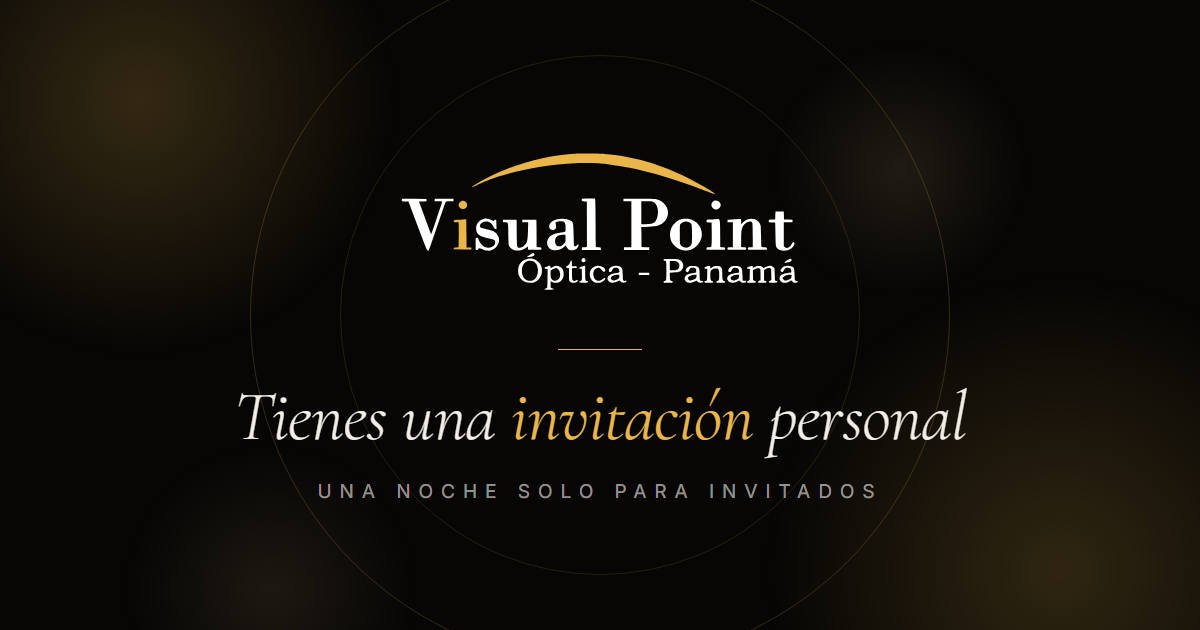
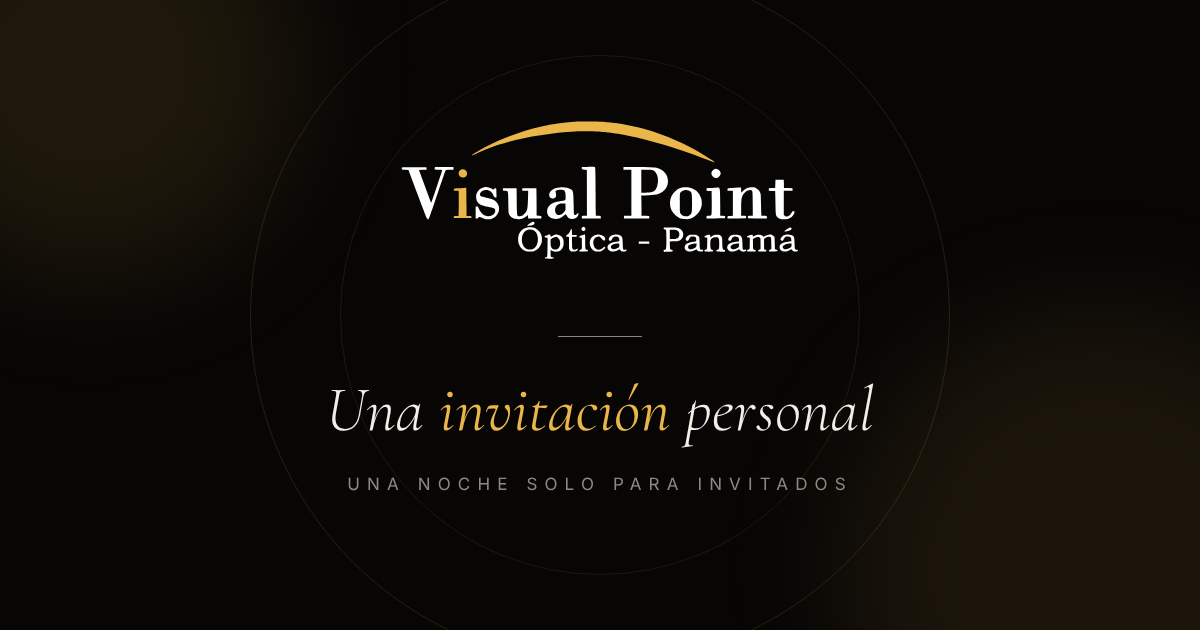
Inauguración: sello del pase sin textLength (cabe en el círculo en Safari), nombre sin inline-block y nueva imagen para compartir en trato de usted
Claude-Session: https://claude.ai/code/session_01WwBaHdbXEsProUqmyR9w4C

Changed region(s): [[0.3392, 0.181, 0.6783, 0.4524], [0.185, 0.6032, 0.8017, 0.7238], [0.2467, 0.754, 0.74, 0.8143]]

diff --git a/inauguracion/index.html b/inauguracion/index.html
@@ -84,7 +84,7 @@
   .kicker{font-size:12.5px;letter-spacing:.36em;text-transform:uppercase;color:var(--mute);margin-bottom:28px;font-weight:400}
   h2{text-wrap:balance;font-weight:200;font-size:clamp(38px,8.2vw,112px);line-height:1.03;letter-spacing:-.045em;max-width:11em}
   h2 em{font-size:1.06em}
-  .nm{display:inline-block;white-space:nowrap}
+  .nm{white-space:nowrap}
   .and{display:block;font-size:.42em;letter-spacing:.02em;line-height:1.2;margin-top:.12em}
   .name{font-family:var(--serif);font-style:italic;font-weight:300;font-size:clamp(84px,24vw,340px);line-height:.95;letter-spacing:-.03em;background:linear-gradient(180deg,#fff 20%,var(--gold) 100%);-webkit-background-clip:text;background-clip:text;color:transparent;padding:0 .1em .08em}
   .sub{font-size:clamp(16px,2.2vw,24px);color:var(--mute);margin-top:18px;letter-spacing:.02em}
@@ -414,7 +414,7 @@
             <defs><path id="ringp" d="M60 60 m-47 0 a47 47 0 1 1 94 0 a47 47 0 1 1 -94 0"/></defs>
             <circle cx="60" cy="60" r="57" fill="none" stroke="#2a1d05" stroke-opacity=".55" stroke-width="1"/>
             <circle cx="60" cy="60" r="35" fill="none" stroke="#2a1d05" stroke-opacity=".55" stroke-width="1"/>
-            <g class="ring"><text font-size="9" letter-spacing="3" fill="#2a1d05" font-family="Inter,sans-serif" font-weight="500"><textPath href="#ringp" textLength="290">VISUAL POINT · INAUGURACIÓN · 20 OCTUBRE · </textPath></text></g>
+            <g class="ring"><text font-size="8.5" letter-spacing="2" fill="#2a1d05" font-family="Inter,sans-serif" font-weight="500"><textPath href="#ringp">VISUAL POINT · INAUGURACIÓN · 20 OCTUBRE · </textPath></text></g>
             <path d="M38 70 Q60 40 82 70" fill="none" stroke="#1a1306" stroke-width="3" stroke-linecap="round"/>
             <circle cx="60" cy="75" r="2.6" fill="#1a1306"/>
           </svg>
